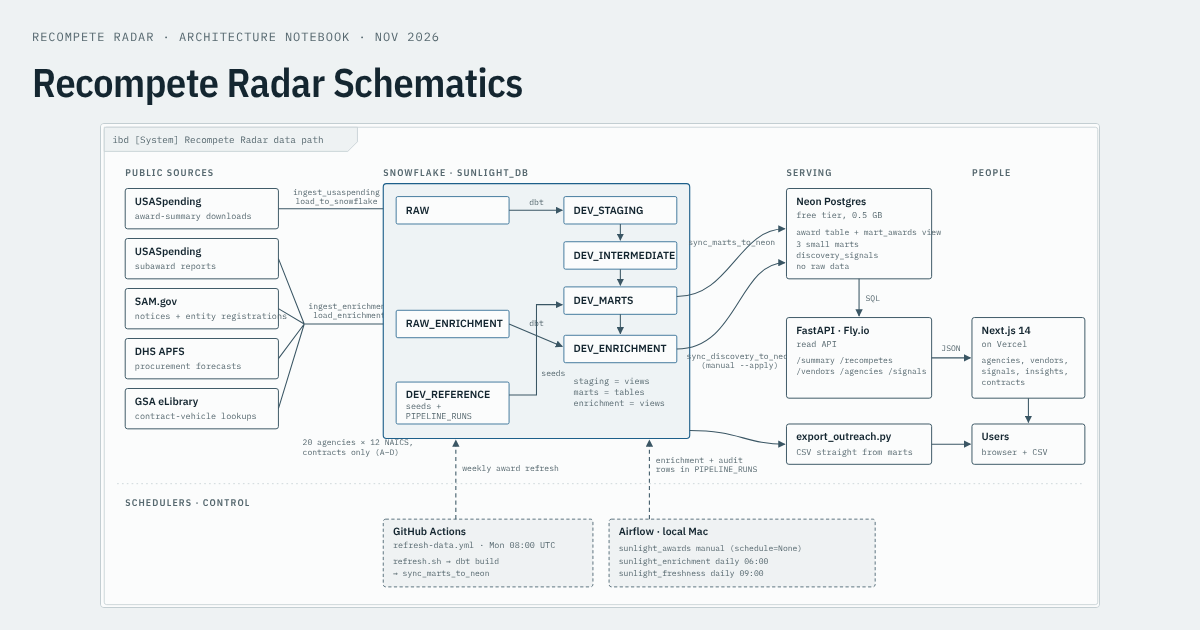
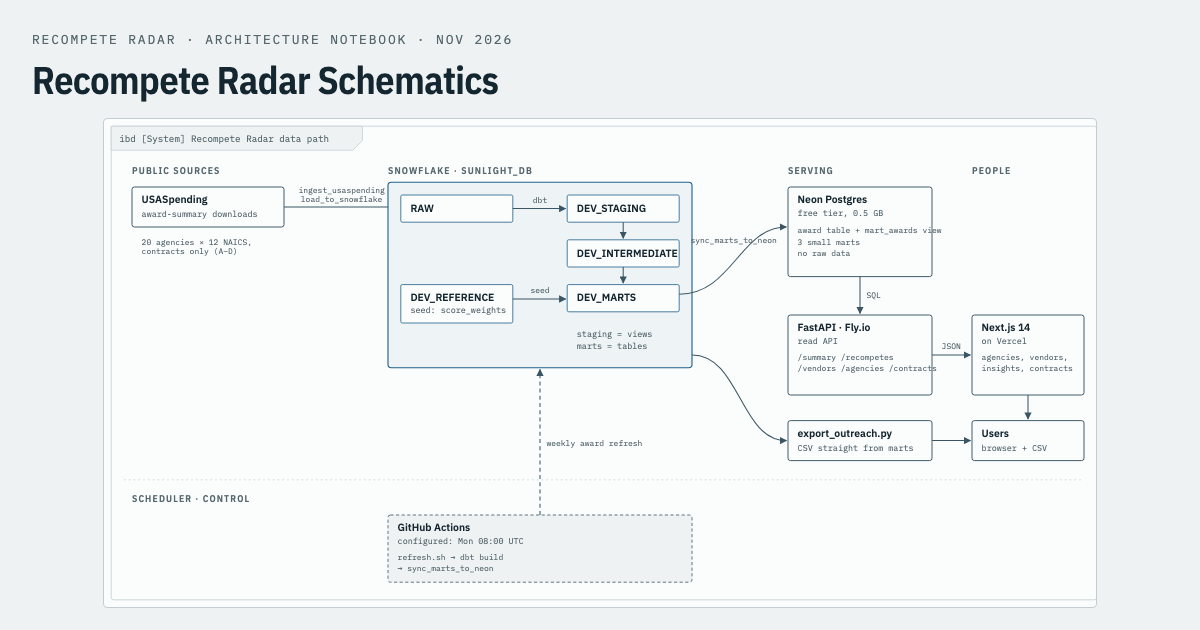
fix: match the schematics page to the repo's main branch
Remove Airflow, the enrichment sources and marts, PIPELINE_RUNS and the
freshness view, which exist only on an unmerged branch. The page now shows
four views of what main contains, and the preview image is regenerated.

diff --git a/public/recompete-radar/architecture/index.html b/public/recompete-radar/architecture/index.html
@@ -4,12 +4,12 @@
 <meta charset="utf-8">
 <meta name="viewport" content="width=device-width, initial-scale=1, viewport-fit=cover">
 <title>Recompete Radar: System Schematics – Peter Hagen</title>
-<meta name="description" content="Five systems-engineering views of the Recompete Radar data pipeline: block diagram, coloured Petri net, dbt lineage, scoring model and freshness checks.">
+<meta name="description" content="Four systems-engineering views of the Recompete Radar data pipeline: block diagram, coloured Petri net, dbt lineage and scoring model.">
 <link rel="canonical" href="https://phizou.github.io/recompete-radar/architecture/">
 <link rel="icon" href="/favicon.svg" type="image/svg+xml">
 <meta property="og:type" content="article">
 <meta property="og:title" content="Recompete Radar: System Schematics">
-<meta property="og:description" content="Five systems-engineering views of how public procurement data becomes a ranked list of contracts about to be re-bid.">
+<meta property="og:description" content="Four systems-engineering views of how public procurement data becomes a ranked list of contracts about to be re-bid.">
 <meta property="og:url" content="https://phizou.github.io/recompete-radar/architecture/">
 <meta property="og:image" content="https://phizou.github.io/recompete-radar/architecture/og-image.png">
 <meta property="og:image:width" content="1200">
@@ -194,13 +194,12 @@ a { color: var(--data); }
   <a class="back" href="/recompete-radar">← Recompete Radar</a>
   <div class="eyebrow">recompete radar · architecture notebook · nov 2026</div>
   <h1>Recompete Radar Schematics</h1>
-  <p>Five views of the same system. Public procurement data is downloaded, loaded into Snowflake, modeled by dbt, scored, copied into a small Postgres database, and served by an API to the web app. Each view uses a different systems-engineering notation because each answers a different question about that path. The Petri net, lineage graph and score map are interactive.</p>
+  <p>Four views of the same system. Public procurement data is downloaded, loaded into Snowflake, modeled by dbt, scored, copied into a small Postgres database, and served by an API to the web app. Each view uses a different systems-engineering notation because each answers a different question about that path. The Petri net, lineage graph and score map are interactive.</p>
   <nav class="toc" aria-label="Views">
     <a href="#context"><b>ibd</b>What talks to what</a>
     <a href="#refresh"><b>pn</b>How a refresh runs</a>
     <a href="#lineage-sec"><b>dbt</b>How tables depend on each other</a>
     <a href="#scoring"><b>calc</b>How a contract gets scored</a>
-    <a href="#freshness"><b>stm</b>How staleness is detected</a>
   </nav>
 </header>
 
@@ -209,7 +208,7 @@ a { color: var(--data); }
   <div class="sec-head">
     <div class="kind">ibd · internal block diagram</div>
     <h2>What talks to what</h2>
-    <p>Solid arrows carry data, labeled with the script that moves it. Dashed arrows are control: which scheduler starts the work. The data plane is on top and the schedulers sit underneath.</p>
+    <p>Solid arrows carry data, labeled with the script that moves it. The dashed arrow is control: the scheduler that starts the work. The data plane is on top and the scheduler sits underneath.</p>
   </div>
   <div class="frame">
   <svg viewBox="0 0 1240 600" width="1240" height="600" role="img" aria-label="System block diagram: public sources feed Snowflake, dbt builds marts, marts sync to Neon Postgres, a FastAPI service serves the Next.js app">
@@ -226,68 +225,50 @@ a { color: var(--data); }
     <!-- sources -->
     <g>
       <rect class="box" x="30" y="80" width="190" height="50" rx="3"/><text class="t-title" x="42" y="100">USASpending</text><text class="t-sub" x="42" y="118">award-summary downloads</text>
-      <rect class="box" x="30" y="142" width="190" height="50" rx="3"/><text class="t-title" x="42" y="162">USASpending</text><text class="t-sub" x="42" y="180">subaward reports</text>
-      <rect class="box" x="30" y="204" width="190" height="50" rx="3"/><text class="t-title" x="42" y="224">SAM.gov</text><text class="t-sub" x="42" y="242">notices + entity registrations</text>
-      <rect class="box" x="30" y="266" width="190" height="50" rx="3"/><text class="t-title" x="42" y="286">DHS APFS · retired</text><text class="t-sub" x="42" y="304">frozen snapshot · 16 Oct 2026</text>
-      <rect class="box" x="30" y="328" width="190" height="50" rx="3"/><text class="t-title" x="42" y="348">GSA eLibrary</text><text class="t-sub" x="42" y="366">contract-vehicle lookups</text>
     </g>
+    <text class="t-lab" x="42" y="152">20 agencies × 12 NAICS,</text>
+    <text class="t-lab" x="42" y="164">contracts only (A–D)</text>
 
     <!-- source -> snowflake -->
     <path class="wire" d="M220 105 L 364 105" marker-end="url(#ah1)"/>
     <text class="t-lab" x="292" y="88" text-anchor="middle">ingest_usaspending</text>
     <text class="t-lab" x="292" y="99" text-anchor="middle">load_to_snowflake</text>
-    <path class="wire" d="M220 167 L 252 248 M220 229 L 252 248 M220 291 L 252 248 M220 353 L 252 248"/>
-    <path class="wire" d="M252 248 L 364 248" marker-end="url(#ah1)"/>
-    <text class="t-lab" x="308" y="230" text-anchor="middle">ingest_enrichment</text>
-    <text class="t-lab" x="308" y="241" text-anchor="middle">load_enrichment</text>
-    <text class="t-lab" x="250" y="398">20 agencies × 12 NAICS,</text>
-    <text class="t-lab" x="250" y="410">contracts only (A–D)</text>
 
     <!-- snowflake -->
-    <rect class="box-sf" x="350" y="74" width="380" height="316" rx="4"/>
+    <rect class="box-sf" x="350" y="74" width="380" height="232" rx="4"/>
     <rect class="chip" x="366" y="90" width="140" height="34" rx="2"/><text class="t-title" x="378" y="111">RAW</text>
-    <rect class="chip" x="366" y="231" width="140" height="34" rx="2"/><text class="t-title" x="378" y="252">RAW_ENRICHMENT</text>
-    <rect class="chip" x="366" y="320" width="140" height="52" rx="2"/><text class="t-title" x="378" y="340">DEV_REFERENCE</text><text class="t-sub" x="378" y="354">seeds +</text><text class="t-sub" x="378" y="366">PIPELINE_RUNS</text>
+    <rect class="chip" x="366" y="202" width="140" height="48" rx="2"/><text class="t-title" x="378" y="222">DEV_REFERENCE</text><text class="t-sub" x="378" y="238">seed: score_weights</text>
     <rect class="chip" x="574" y="90" width="140" height="34" rx="2"/><text class="t-title" x="586" y="111">DEV_STAGING</text>
     <rect class="chip" x="574" y="146" width="140" height="34" rx="2"/><text class="t-title" x="586" y="167">DEV_INTERMEDIATE</text>
     <rect class="chip" x="574" y="202" width="140" height="34" rx="2"/><text class="t-title" x="586" y="223">DEV_MARTS</text>
-    <rect class="chip" x="574" y="262" width="140" height="34" rx="2"/><text class="t-title" x="586" y="283">DEV_ENRICHMENT</text>
     <path class="wire" d="M506 107 L 572 107" marker-end="url(#ah1)"/>
     <text class="t-lab" x="540" y="100" text-anchor="middle">dbt</text>
-    <path class="wire" d="M506 248 L 572 276" marker-end="url(#ah1)"/>
-    <text class="t-lab" x="540" y="250" text-anchor="middle">dbt</text>
     <path class="wire" d="M644 124 L 644 144" marker-end="url(#ah1)"/>
     <path class="wire" d="M644 180 L 644 200" marker-end="url(#ah1)"/>
-    <path class="wire" d="M644 236 L 644 260" marker-end="url(#ah1)"/>
-    <path class="wire" d="M506 336 L 540 336 L 540 224 L 572 224" marker-end="url(#ah1)"/>
-    <text class="t-lab" x="546" y="312">seeds</text>
-    <text class="t-sub" x="586" y="322">staging = views</text>
-    <text class="t-sub" x="586" y="336">marts = tables</text>
-    <text class="t-sub" x="586" y="350">enrichment = views</text>
+    <path class="wire" d="M506 220 L 572 220" marker-end="url(#ah1)"/>
+    <text class="t-lab" x="540" y="213" text-anchor="middle">seed</text>
+    <text class="t-sub" x="586" y="268">staging = views</text>
+    <text class="t-sub" x="586" y="282">marts = tables</text>
 
     <!-- snowflake -> neon -->
     <path class="wire" d="M714 214 C 780 214, 790 130, 848 130" marker-end="url(#ah1)"/>
     <text class="t-lab" x="782" y="150" text-anchor="middle">sync_marts_to_neon</text>
-    <path class="wire" d="M714 279 C 790 279, 790 172, 848 172" marker-end="url(#ah1)"/>
-    <text class="t-lab" x="792" y="292" text-anchor="middle">sync_discovery_to_neon</text>
-    <text class="t-lab" x="792" y="303" text-anchor="middle">(manual --apply)</text>
 
     <!-- serving -->
     <rect class="box" x="850" y="80" width="180" height="112" rx="3"/>
     <text class="t-title" x="862" y="100">Neon Postgres</text><text class="t-sub" x="862" y="116">free tier, 0.5 GB</text>
     <text class="t-lab" x="862" y="138">award table + mart_awards view</text>
     <text class="t-lab" x="862" y="152">3 small marts</text>
-    <text class="t-lab" x="862" y="166">discovery_signals</text>
-    <text class="t-lab" x="862" y="180">no raw data</text>
+    <text class="t-lab" x="862" y="166">no raw data</text>
     <path class="wire" d="M940 192 L 940 238" marker-end="url(#ah1)"/>
     <text class="t-lab" x="948" y="219">SQL</text>
     <rect class="box" x="850" y="240" width="180" height="100" rx="3"/>
     <text class="t-title" x="862" y="260">FastAPI · Fly.io</text><text class="t-sub" x="862" y="276">read API</text>
     <text class="t-lab" x="862" y="296">/summary /recompetes</text>
-    <text class="t-lab" x="862" y="310">/vendors /agencies /signals</text>
+    <text class="t-lab" x="862" y="310">/vendors /agencies /contracts</text>
     <rect class="box" x="850" y="372" width="180" height="50" rx="3"/>
     <text class="t-title" x="862" y="392">export_outreach.py</text><text class="t-sub" x="862" y="410">CSV straight from marts</text>
-    <path class="wire" d="M730 380 C 790 380, 800 397, 848 397" marker-end="url(#ah1)"/>
+    <path class="wire" d="M730 290 C 790 290, 790 397, 848 397" marker-end="url(#ah1)"/>
 
     <!-- people -->
     <path class="wire" d="M1030 290 L 1078 290" marker-end="url(#ah1)"/>
@@ -295,8 +276,7 @@ a { color: var(--data); }
     <rect class="box" x="1080" y="240" width="140" height="100" rx="3"/>
     <text class="t-title" x="1092" y="260">Next.js 14</text><text class="t-sub" x="1092" y="276">on Vercel</text>
     <text class="t-lab" x="1092" y="296">agencies, vendors,</text>
-    <text class="t-lab" x="1092" y="310">signals, insights,</text>
-    <text class="t-lab" x="1092" y="324">contracts</text>
+    <text class="t-lab" x="1092" y="310">insights, contracts</text>
     <path class="wire" d="M1150 340 L 1150 370" marker-end="url(#ah1)"/>
     <path class="wire" d="M1030 397 L 1078 397" marker-end="url(#ah1)"/>
     <rect class="box" x="1080" y="372" width="140" height="50" rx="3"/>
@@ -304,21 +284,13 @@ a { color: var(--data); }
 
     <!-- control plane -->
     <line x1="20" y1="446" x2="1220" y2="446" stroke="var(--line)" stroke-dasharray="2 4"/>
-    <text class="lane" x="30" y="474">SCHEDULERS · CONTROL</text>
-    <rect class="box-ctl" x="350" y="490" width="260" height="84" rx="3"/>
+    <text class="lane" x="30" y="474">SCHEDULER · CONTROL</text>
+    <rect class="box-ctl" x="350" y="490" width="380" height="84" rx="3"/>
     <text class="t-title" x="362" y="510">GitHub Actions</text><text class="t-sub" x="362" y="526">configured: Mon 08:00 UTC</text>
     <text class="t-lab" x="362" y="546">refresh.sh → dbt build</text>
     <text class="t-lab" x="362" y="560">→ sync_marts_to_neon</text>
-    <rect class="box-ctl" x="630" y="490" width="330" height="84" rx="3"/>
-    <text class="t-title" x="642" y="510">Airflow · local Mac</text>
-    <text class="t-lab" x="642" y="530">sunlight_awards      manual (schedule=None)</text>
-    <text class="t-lab" x="642" y="545">sunlight_enrichment  daily 06:00 ET*</text>
-    <text class="t-lab" x="642" y="560">sunlight_freshness   daily 09:00 ET*</text>
-    <path class="wire ctl" d="M440 490 L 440 392" marker-end="url(#ah1)"/>
-    <text class="t-lab" x="448" y="430">weekly award refresh</text>
-    <path class="wire ctl" d="M680 490 L 680 392" marker-end="url(#ah1)"/>
-    <text class="t-lab" x="688" y="420">enrichment + audit</text>
-    <text class="t-lab" x="688" y="432">rows in PIPELINE_RUNS</text>
+    <path class="wire ctl" d="M540 490 L 540 308" marker-end="url(#ah1)"/>
+    <text class="t-lab" x="548" y="404">weekly award refresh</text>
   </svg>
   </div>
   <div class="cols">
@@ -327,8 +299,8 @@ a { color: var(--data); }
       <p>Snowflake holds everything: about 484k raw award rows plus every dbt model. Neon's free tier is 0.5 GB, so it only gets the tables the API reads. The award table goes over once, and <code>mart_awards</code> is recreated in Neon as a view over it so the same rows aren't stored twice.</p>
     </div>
     <div class="notes">
-      <h3>Why two schedulers</h3>
-      <p>The repository configures GitHub Actions for weekly award refreshes. The Airflow awards DAG is manual to avoid two schedulers running <code>refresh.sh --replace</code> against the same tables at once. *Airflow is configured for daily enrichment and freshness checks, plus monthly entity registrations. These are configured schedules; successful automatic runs and current pause states have not been verified here. The DHS APFS feed was retired on 30 Oct 2026, so its last snapshot is frozen.</p>
+      <h3>How the refresh is scheduled</h3>
+      <p>One GitHub Actions workflow is configured to run every Monday at 08:00 UTC. It runs <code>refresh.sh</code>, then <code>dbt build</code>, then <code>sync_marts_to_neon.py</code>, in that order. This is the configured schedule. Nothing on this page reports whether recent runs succeeded.</p>
     </div>
   </div>
 </section>
@@ -338,7 +310,7 @@ a { color: var(--data); }
   <div class="sec-head">
     <div class="kind">pn · coloured Petri net · interactive</div>
     <h2>How a refresh runs</h2>
-    <p>This is the <code>sunlight_awards</code> DAG modeled as a coloured Petri net. Circles are states, bars are steps, and dots are tokens. Each token carries a colour: an agency, a download outcome, or the dataset. An orange bar is enabled. Click it to fire, or press Run. Click any circle to see its tokens.</p>
+    <p>This is the weekly refresh workflow (<code>refresh-data.yml</code>) modeled as a coloured Petri net. Circles are states, bars are steps, and dots are tokens. Each token carries a colour: an agency, a download outcome, or the dataset. An orange bar is enabled. Click it to fire, or press Run. Click any circle to see its tokens.</p>
   </div>
   <div class="frame" id="pn-frame">
     <svg id="pn" viewBox="0 0 980 400" width="980" height="400" role="img" aria-label="Petri net of the award refresh"></svg>
@@ -364,7 +336,7 @@ a { color: var(--data); }
     </ul>
     <ul class="facts">
       <li><b>×20 is a barrier.</b> The load waits for every agency to finish, whatever the outcome. <code>--replace</code> is per-agency safe: a red token means that agency keeps last week's rows instead of being emptied. The delete and COPY run in one transaction.</li>
-      <li><b>record_* never blocks.</b> Each writes a row to <code>PIPELINE_RUNS</code> through <code>record_run()</code>, wrapped in <code>|| true</code>. The GitHub Actions path runs the same chain without the record steps.</li>
+      <li><b>The workflow is three steps in order.</b> <code>refresh.sh</code> downloads and loads, <code>dbt build</code> rebuilds and tests the models, and <code>sync_marts_to_neon.py</code> copies the served tables. If a dbt test fails, the run stops before anything reaches Neon.</li>
     </ul>
   </div>
 </section>
@@ -374,10 +346,10 @@ a { color: var(--data); }
   <div class="sec-head">
     <div class="kind">dbt · model lineage · click a node</div>
     <h2>How tables depend on each other</h2>
-    <p>These are the 26 objects in the 17 Oct 2026 inventory, traced through the <code>ref()</code> and <code>source()</code> calls in each model. Click a node to trace everything upstream and downstream of it. The dashed orange edge is the dependency that runs outside dbt: <code>fit_scores.py</code> reads the backtest table and writes the weights seed, which is committed to the repo. This is a dated snapshot; the models have since evolved.</p>
+    <p>These are the eight objects dbt works with on the main branch: one source table, one seed, one staging view, the backtest model and four marts. They are traced through the <code>ref()</code> and <code>source()</code> calls in each model. Click a node to trace everything upstream and downstream of it. The dashed orange edge is the dependency that runs outside dbt: <code>fit_scores.py</code> reads the backtest table and writes the weights seed, which is committed to the repo. Row counts are from a 17 Oct 2026 warehouse inventory.</p>
   </div>
   <div class="frame">
-    <svg id="lineage" viewBox="0 0 1340 600" width="1340" height="600" role="img" aria-label="dbt lineage graph"></svg>
+    <svg id="lineage" viewBox="0 0 1140 270" width="1140" height="270" role="img" aria-label="dbt lineage graph"></svg>
     <div class="ln-info" id="ln-info"><div class="nm">Nothing selected</div><p>Click a model. Row counts come from the 2026-10-17 inventory, not a live query.</p></div>
     <div class="legend">
       <span><i style="border-color:var(--c-src);background:color-mix(in srgb,var(--c-src) 12%,var(--panel))"></i>source table</span>
@@ -385,7 +357,6 @@ a { color: var(--data); }
       <span><i style="border-color:var(--c-stg);background:color-mix(in srgb,var(--c-stg) 12%,var(--panel))"></i>staging view</span>
       <span><i style="border-color:var(--c-int);background:color-mix(in srgb,var(--c-int) 12%,var(--panel))"></i>intermediate</span>
       <span><i style="border-color:var(--c-mart);background:color-mix(in srgb,var(--c-mart) 14%,var(--panel))"></i>core mart table</span>
-      <span><i style="border-color:var(--c-enr);background:color-mix(in srgb,var(--c-enr) 12%,var(--panel))"></i>enrichment view</span>
       <span><i style="border-color:var(--data);background:var(--data)"></i>copied to Neon</span>
     </div>
   </div>
@@ -445,28 +416,8 @@ a { color: var(--data); }
   </div>
 </section>
 
-<!-- ============ 5. FRESHNESS ============ -->
-<section id="freshness">
-  <div class="sec-head">
-    <div class="kind">stm · two clocks</div>
-    <h2>How staleness is detected</h2>
-    <p><code>pipelines/freshness.py</code> keeps two separate clocks per source. <b>Recorded</b> is what the scheduler says happened, from <code>PIPELINE_RUNS</code>. <b>Observed</b> is what the data itself shows, from <code>OBSERVED_AT</code> on each record or <code>LAST_ALTERED</code> on each table. Each source becomes stale once it has clearly missed its cadence: SAM after 72 h, awards after 240 h, GSA after 1,440 h. Comparing the two clocks is what makes the check useful.</p>
-  </div>
-  <div class="matrix">
-    <div class="hd corner"></div>
-    <div class="hd">observed timestamp moved</div>
-    <div class="hd">observed timestamp unchanged</div>
-    <div class="hd">recorded success</div>
-    <div><span class="verdict v-ok">healthy</span><br>The job ran and new data landed.</div>
-    <div><span class="verdict v-warn">ran, fetched nothing</span><br>The task succeeded but no rows changed. This is the case the two-clock design exists to catch.</div>
-    <div class="hd">no recent record</div>
-    <div><span class="verdict v-warn">loaded outside Airflow</span><br>Someone ran the script by hand, or CI did. The data is fine, but the audit trail missed it.</div>
-    <div><span class="verdict v-bad">stale</span><br>Nothing ran, or the scheduler stopped. A separate daily freshness DAG flags this, because a check inside the same DAG would stop too.</div>
-  </div>
-</section>
-
 <footer>
-  <p>Built from the Recompete Radar source in November 2026. Row counts are from the 2026-10-17 warehouse inventory, not a live query. The Petri net is a model with simulated download outcomes; nothing on this page queries Snowflake or reflects live scheduler health.</p>
+  <p>This page reflects the main branch of the Recompete Radar repository as of November 2026. Row counts are from the 2026-10-17 warehouse inventory, not a live query. The Petri net is a model with simulated download outcomes. Nothing on this page queries Snowflake or reports whether scheduled runs succeeded.</p>
   <div class="site">
     <span>Code on <a href="https://github.com/PHiZou/recompete-radar" target="_blank" rel="noopener">GitHub</a> · More at <a href="/recompete-radar">Recompete Radar</a> and <a href="/">phizou.github.io</a></span>
     <a href="https://www.linkedin.com/in/peterhagen123" target="_blank" rel="noopener">Get in touch</a>
@@ -500,20 +451,15 @@ a { color: var(--data); }
     dl:      { x: 270, y: 150, l: ['generating', 'download'] },
     done:    { x: 480, y: 150, l: ['agency', 'finished'] },
     raw:     { x: 690, y: 150, l: ['RAW', 'loaded'] },
-    ready:   { x: 900, y: 150, l: ['ingest', 'recorded'] },
-    marts:   { x: 795, y: 330, l: ['marts built', '+ tested'] },
-    built:   { x: 585, y: 330, l: ['dbt', 'recorded'] },
+    marts:   { x: 585, y: 330, l: ['marts built', '+ tested'] },
     serving: { x: 375, y: 330, l: ['Neon', 'serving'] },
-    runs:    { x: 742, y: 246, l: ['PIPELINE_', 'RUNS'], lp: 'right', r: 22 },
   };
   const TR = {
     request: { x: 165, y: 150, in: { queue: 1, slots: 1 }, out: ['dl'], l: ['request', 'download'] },
     land:    { x: 375, y: 150, in: { dl: 1 }, out: ['done', 'slots'], l: ['download', 'lands'] },
     load:    { x: 585, y: 150, in: { done: 20 }, out: ['raw'], l: ['load_to_', 'snowflake'] },
-    rec1:    { x: 795, y: 150, in: { raw: 1 }, out: ['ready', 'runs'], l: ['record_', 'ingest'] },
-    dbt:     { x: 900, y: 330, in: { ready: 1 }, out: ['marts'], l: ['dbt deps', '+ build'] },
-    rec2:    { x: 690, y: 330, in: { marts: 1 }, out: ['built', 'runs'], l: ['record_', 'dbt'] },
-    sync:    { x: 480, y: 330, in: { built: 1 }, out: ['serving'], l: ['sync_marts', '_to_neon'] },
+    dbt:     { x: 690, y: 330, in: { raw: 1 }, out: ['marts'], l: ['dbt deps', '+ build'] },
+    sync:    { x: 480, y: 330, in: { marts: 1 }, out: ['serving'], l: ['sync_marts', '_to_neon'] },
   };
   const HW = 8, HH = 26;
 
@@ -523,9 +469,9 @@ a { color: var(--data); }
 
   el('rect', { class: 'f-frame', x: 4, y: 4, width: 972, height: 392, rx: 3 }, svg);
   el('path', { class: 'f-tag', d: 'M4 4 H 270 V 22 L 258 34 H 4 Z' }, svg);
-  text(svg, 14, 24, 'pn [DAG] sunlight_awards', 'f-tagtext', 'start');
+  text(svg, 14, 24, 'pn [CI] refresh-data.yml', 'f-tagtext', 'start');
   el('rect', { class: 'pn-group', x: 24, y: 40, width: 712, height: 168, rx: 4 }, svg);
-  text(svg, 726, 56, 'task ingest_usaspending = bash pipelines/refresh.sh', 'pn-label', 'end');
+  text(svg, 726, 56, 'step: bash pipelines/refresh.sh', 'pn-label', 'end');
 
   const edgePt = (node, isPlace, tx, ty) => {
     const dx = tx - node.x, dy = ty - node.y, len = Math.hypot(dx, dy) || 1;
@@ -618,10 +564,8 @@ a { color: var(--data); }
       log(`load --replace: ${ok} agencies replaced${kept.length ? ', ' + kept.join(', ') + ' kept' : ''} (one transaction)`, kept.length > 0);
       return { raw: [{ k: 'data', id: `award data · ${ok}/20 fresh` }] };
     },
-    rec1(c) { log('record_run("usaspending_awards", "success")'); return { ready: c.raw, runs: [{ k: 'run', id: 'usaspending_awards ✓' }] }; },
-    dbt(c) { log('dbt deps + dbt build: models built, tests pass'); return { marts: c.ready }; },
-    rec2(c) { log('record_run("dbt_models", "success")'); return { built: c.marts, runs: [{ k: 'run', id: 'dbt_models ✓' }] }; },
-    sync(c) { log('sync_marts_to_neon: 3 marts swapped together, award table reloaded'); return { serving: c.built }; },
+    dbt(c) { log('dbt deps + dbt build: models built, tests pass'); return { marts: c.raw }; },
+    sync(c) { log('sync_marts_to_neon: 3 marts swapped together, award table reloaded'); return { serving: c.marts }; },
   };
 
   function fire(tid) {
@@ -712,38 +656,17 @@ a { color: var(--data); }
   const LN = document.getElementById('lineage');
   const NODES = [
     ['score_weights', 0, -1, 'seed', 'seed · csv', 'score_weights', '39 log-odds weights written by pipelines/fit_scores.py and committed to the repo. Loaded by dbt seed.', '39 rows'],
-    ['raw', 0, 0, 'src', 'source · RAW', 'AWARD_TRANSACTIONS', 'One row per award from the USASpending award-summary download. 20 agencies × 12 NAICS, contracts only.', '484,242 rows'],
-    ['s_sub', 0, 2, 'src', 'source · RAW_ENRICHMENT', 'USASPENDING_SUBAWARDS', 'Append-only JSON snapshots (payload + observed_at) written by load_enrichment.py.'],
-    ['s_gsa', 0, 3, 'src', 'source · RAW_ENRICHMENT', 'GSA_VEHICLES', 'Append-only JSON snapshots from explicit GSA eLibrary contract-number lookups.'],
-    ['s_ven', 0, 4, 'src', 'source · RAW_ENRICHMENT', 'VENDOR_ENTITIES', 'Append-only JSON snapshots of public SAM.gov entity registrations.'],
-    ['s_sam', 0, 5, 'src', 'source · RAW_ENRICHMENT', 'SAM_OPPORTUNITIES', 'Append-only JSON snapshots of SAM.gov notices. The API pilot shown in this inventory was replaced by public nightly bulk files in November.'],
-    ['target', 0, 6, 'seed', 'seed · csv', 'target_sam_agencies', 'Maps SAM department names to the 20 portfolio agencies.', '20 rows'],
-    ['s_fc', 0, 7, 'src', 'source · RAW_ENRICHMENT', 'PROCUREMENT_FORECASTS', 'Append-only JSON snapshots of the DHS APFS forecast feed. The feed was retired on 30 Oct 2026; its last snapshot is frozen.'],
-    ['stg', 1, 0, 'stg', 'stg_usaspending · view', 'award_transactions', 'Renames and types the raw columns. dbt tests award_unique_key unique. Copied to Neon as the award table behind the contract pages.', null, true],
-    ['g_sub', 1, 2, 'stg', 'stg_enrichment · view', 'subawards', 'Unpacks the JSON payload and keeps the newest snapshot per record_id (qualify row_number() = 1).'],
-    ['g_gsa', 1, 3, 'stg', 'stg_enrichment · view', 'gsa_vehicles', 'Unpacks the JSON payload and keeps the newest snapshot per record_id.'],
-    ['g_ven', 1, 4, 'stg', 'stg_enrichment · view', 'vendor_entities', 'Unpacks the JSON payload and keeps the newest snapshot per record_id.'],
-    ['g_sam', 1, 5, 'stg', 'stg_enrichment · view', 'sam_opportunities', 'Unpacks the JSON payload and keeps the newest snapshot per record_id.'],
-    ['g_fc', 1, 7, 'stg', 'stg_enrichment · view', 'forecasts', 'Unpacks the JSON payload and keeps the newest snapshot per record_id. Statuses include NEW, REC and NLR, so not every row is active.'],
-    ['awards', 2, 0, 'mart', 'mart · table', 'mart_awards', 'Award grain. Feeds every scoring and vendor model. In Neon it is a view over the copied award table.', '484,242 rows', true],
-    ['links', 2, 2, 'enr', 'mart_enrichment · view', 'subaward_links', 'Each reported subaward, flagged by whether its exact prime-award key matches an award here.'],
-    ['vctx', 2, 3.5, 'enr', 'mart_enrichment · view', 'vendor_context', 'Award recipients joined by exact UEI to SAM registrations and GSA vehicle counts. No fuzzy name matching.', '54,881 rows'],
-    ['opp', 2, 5.5, 'enr', 'mart_enrichment · view', 'opportunity_signals', 'SAM notices limited to the 20 agencies through target_sam_agencies, labeled by procurement stage.'],
+    ['raw', 0, 0.5, 'src', 'source · RAW', 'AWARD_TRANSACTIONS', 'One row per award from the USASpending award-summary download. 20 agencies × 12 NAICS, contracts only.', '484,242 rows'],
+    ['stg', 1, 0.5, 'stg', 'stg_usaspending · view', 'award_transactions', 'Renames and types the raw columns. dbt tests award_unique_key unique. Copied to Neon as the award table behind the contract pages.', null, true],
+    ['awards', 2, 0.5, 'mart', 'mart · table', 'mart_awards', 'Award grain. Feeds every scoring and vendor model. In Neon it is a view over the copied award table.', '484,242 rows', true],
     ['bt', 3, -1, 'int', 'intermediate · table', 'int_score_backtest', 'Ended awards over $250K with an inferred follow-on (same office + PSC, start within −180…+365 days). Training data for fit_scores.py.', '94,048 rows'],
-    ['vend', 3, 0, 'mart', 'mart · table', 'mart_vendors', 'One row per vendor UEI. Copied to Neon.', '54,881 rows', true],
-    ['rc', 3, 1, 'mart', 'mart · table', 'mart_recompete_candidates', 'Live contracts ending between 3 months ago and 36 months out, joined to score_weights. The core product table. Copied to Neon.', '28,595 rows', true],
-    ['port', 3, 6.5, 'enr', 'mart_enrichment · view', 'portfolio_signals', 'Forecasts and SAM notices in one table. Deliberately not linked to awards yet.'],
-    ['agsum', 4, 0, 'mart', 'mart · table', 'mart_agency_summary', 'Agency-level rollup of awards and candidates. Copied to Neon.', '128 rows', true],
-    ['sctx', 4, 2, 'enr', 'mart_enrichment · view', 'candidate_supplier_context', 'Recompete candidates plus counts of reported subawards and subcontractors. Same grain as candidates.', '28,595 rows'],
-    ['dsig', 4, 6.5, 'enr', 'mart_enrichment · view', 'discovery_signals', 'portfolio_signals without DHS, so the one forecast feed doesn\'t dominate. Copied to Neon by sync_discovery_to_neon.py --apply.', null, true],
-    ['dcand', 5, 2, 'enr', 'mart_enrichment · view', 'discovery_candidates', 'Candidates without DHS, tagged by customer sector. This is the 9.3% drop from 28,595.', '25,944 rows'],
+    ['vend', 3, 0.5, 'mart', 'mart · table', 'mart_vendors', 'One row per vendor UEI. Copied to Neon.', '54,881 rows', true],
+    ['rc', 3, 2, 'mart', 'mart · table', 'mart_recompete_candidates', 'Live contracts ending between 3 months ago and 36 months out, joined to score_weights. The core product table. Copied to Neon.', '28,595 rows', true],
+    ['agsum', 4, 1.25, 'mart', 'mart · table', 'mart_agency_summary', 'Agency-level rollup of awards and candidates. Copied to Neon.', '128 rows', true],
   ];
   const EDGES = [
     ['raw','stg'],['stg','awards'],['awards','bt'],['awards','vend'],['awards','rc'],['score_weights','rc'],
-    ['awards','agsum'],['rc','agsum'],['rc','sctx'],['g_sub','sctx'],['sctx','dcand'],
-    ['s_sub','g_sub'],['s_gsa','g_gsa'],['s_ven','g_ven'],['s_sam','g_sam'],['s_fc','g_fc'],
-    ['g_sub','links'],['raw','links'],['g_gsa','vctx'],['g_ven','vctx'],['raw','vctx'],
-    ['g_sam','opp'],['target','opp'],['opp','port'],['g_fc','port'],['port','dsig'],
+    ['awards','agsum'],['rc','agsum'],
     ['bt','score_weights','offline'],
   ];
   const NW = 192, NH = 46, CX = 222, X0 = 20, Y0 = 40, RY = 60;
@@ -756,7 +679,7 @@ a { color: var(--data); }
   const ldefs = el('defs', {}, LN);
   const m2 = el('marker', { id: 'ah4', viewBox: '0 0 10 10', refX: 9, refY: 5, markerWidth: 6, markerHeight: 6, orient: 'auto-start-reverse' }, ldefs);
   el('path', { class: 'ahead', d: 'M0,0 L10,5 L0,10 z' }, m2);
-  el('rect', { class: 'f-frame', x: 4, y: 4, width: 1332, height: 592, rx: 3 }, LN);
+  el('rect', { class: 'f-frame', x: 4, y: 4, width: 1132, height: 262, rx: 3 }, LN);
   el('path', { class: 'f-tag', d: 'M4 4 H 262 V 22 L 250 34 H 4 Z' }, LN);
   text(LN, 14, 24, 'pkg [dbt] SUNLIGHT_DB models', 'f-tagtext', 'start');
 
